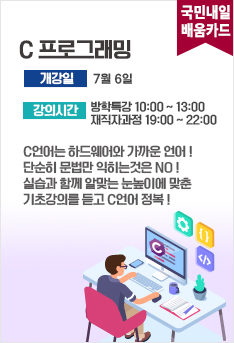
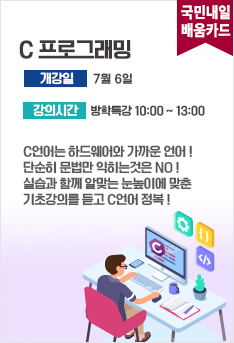
수정사항 적용 20200626

Changed region(s): [[0.3889, 0.2915, 0.9274, 0.379]]

diff --git a/components/CourseDescription.js b/components/CourseDescription.js
@@ -63,15 +63,21 @@ export default ({ descTitle, descList, descWithTitles, table }) => {
           descWithTitles.map((descWithTitle) => (
             <Desc>
               <CourseTitle>{descWithTitle.descriptionTitle}</CourseTitle>
-              <span
-                style={{
-                  color: "#5da9dd",
-                  fontWeight: "600",
-                }}
-              >
-                ·
-              </span>{" "}
-              {descWithTitle.descriptionContents}
+
+              {descWithTitle.descriptionContents.map((content) => (
+                <>
+                  <span
+                    style={{
+                      color: "#5da9dd",
+                      fontWeight: "600",
+                    }}
+                  >
+                    ·
+                  </span>{" "}
+                  {content}
+                  <br />
+                </>
+              ))}
             </Desc>
           ))
         ) : table ? (

diff --git a/utils/data-generator/short-term-course/Course_Java_gen.js b/utils/data-generator/short-term-course/Course_Java_gen.js
@@ -27,7 +27,7 @@ export default {
     },
   ],
   courseSchedules: {
-    term: "2020.07.06.월 ~ 07.30.목",
+    term: "2020.08.03.월 ~ 08.27.목",
     courseScheduleTime: [
       {
         time: "10:00 ~ 13:00",
@@ -218,5 +218,5 @@ export default {
 
   courseGuide: ["문의 : 비트교육센터 Tel. 02-3486-1780"],
   formUrl:
-    "https://docs.google.com/forms/d/1HLO7Z-H5w7AXiTnVS56U-Ffj55XBuo4_v_zWp4eRXzk/edit",
+    "https://docs.google.com/forms/d/e/1FAIpQLSdhZQPb8mT-8J6z8-7A4TkefxUKRRvWBjOdI_hiQXl8rvkeYA/viewform?usp=sf_link",
 };

diff --git a/utils/data-generator/short-term-course/Course_C_gen.js b/utils/data-generator/short-term-course/Course_C_gen.js
@@ -41,15 +41,15 @@ export default {
           },
         ],
       },
-      {
-        time: "19:00 ~ 22:00",
-        courseCost: [
-          {
-            cost: "320,000원",
-            educationMethods: "오프라인",
-          },
-        ],
-      },
+      // {
+      //   time: "19:00 ~ 22:00",
+      //   courseCost: [
+      //     {
+      //       cost: "320,000원",
+      //       educationMethods: "오프라인",
+      //     },
+      //   ],
+      // },
     ],
   },
   courseDetailInformation: [
